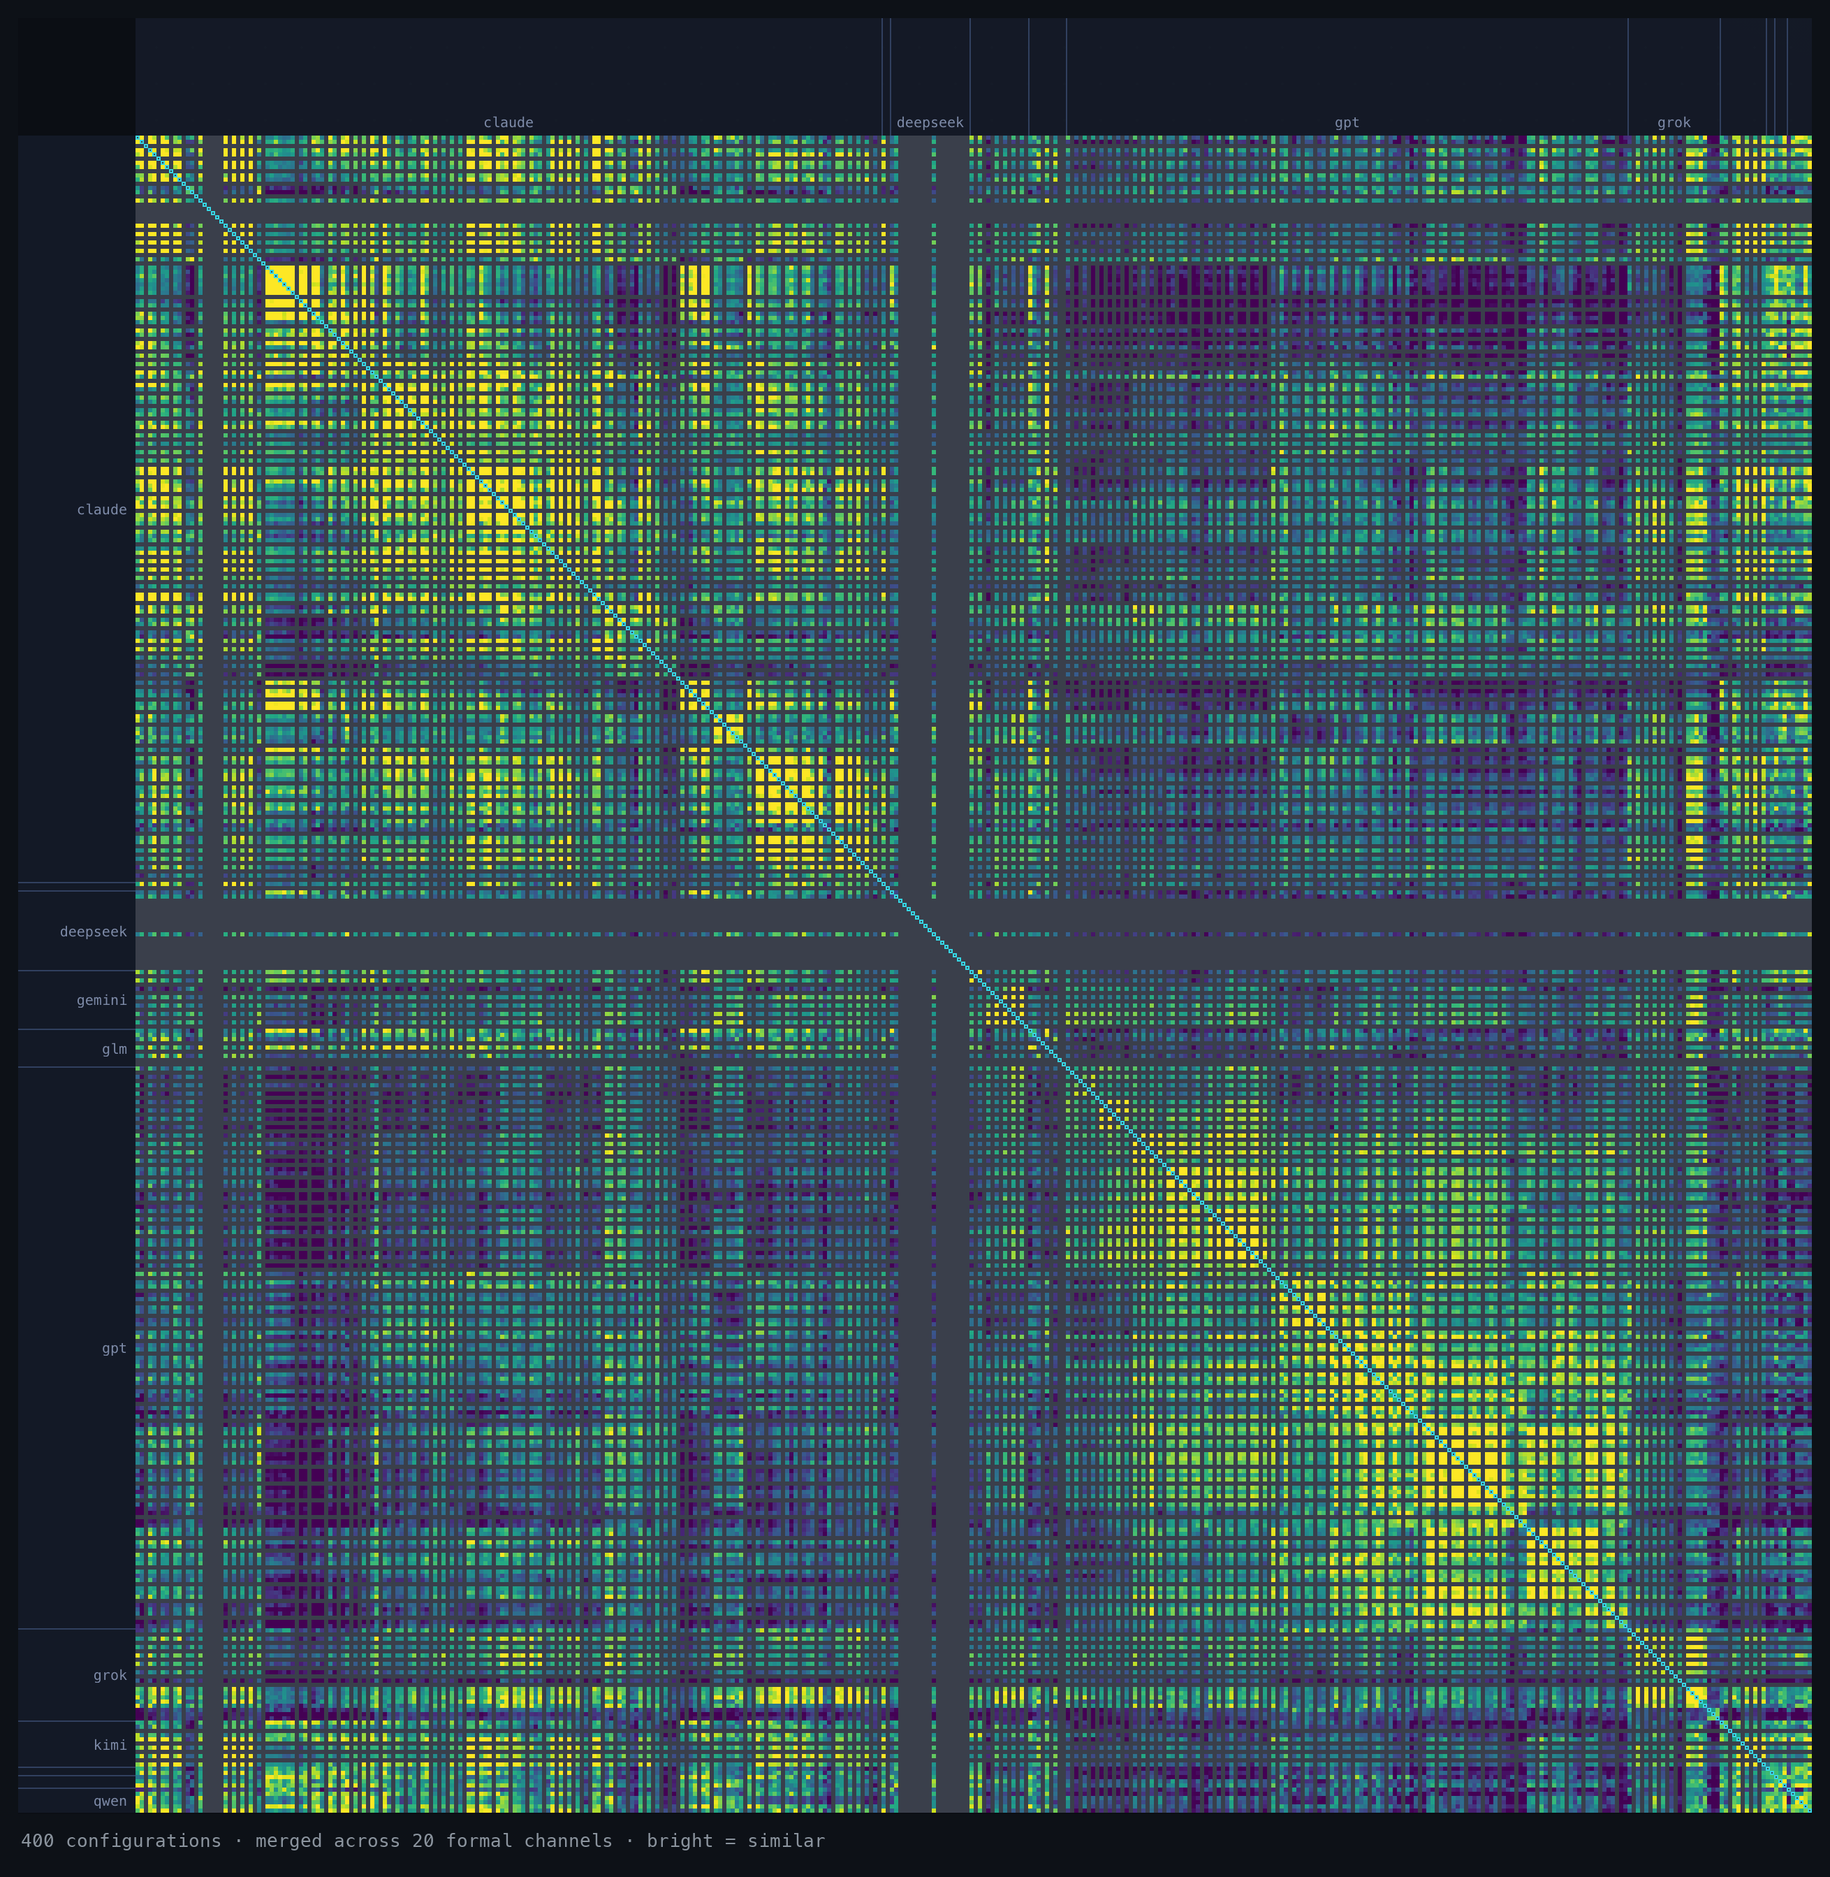
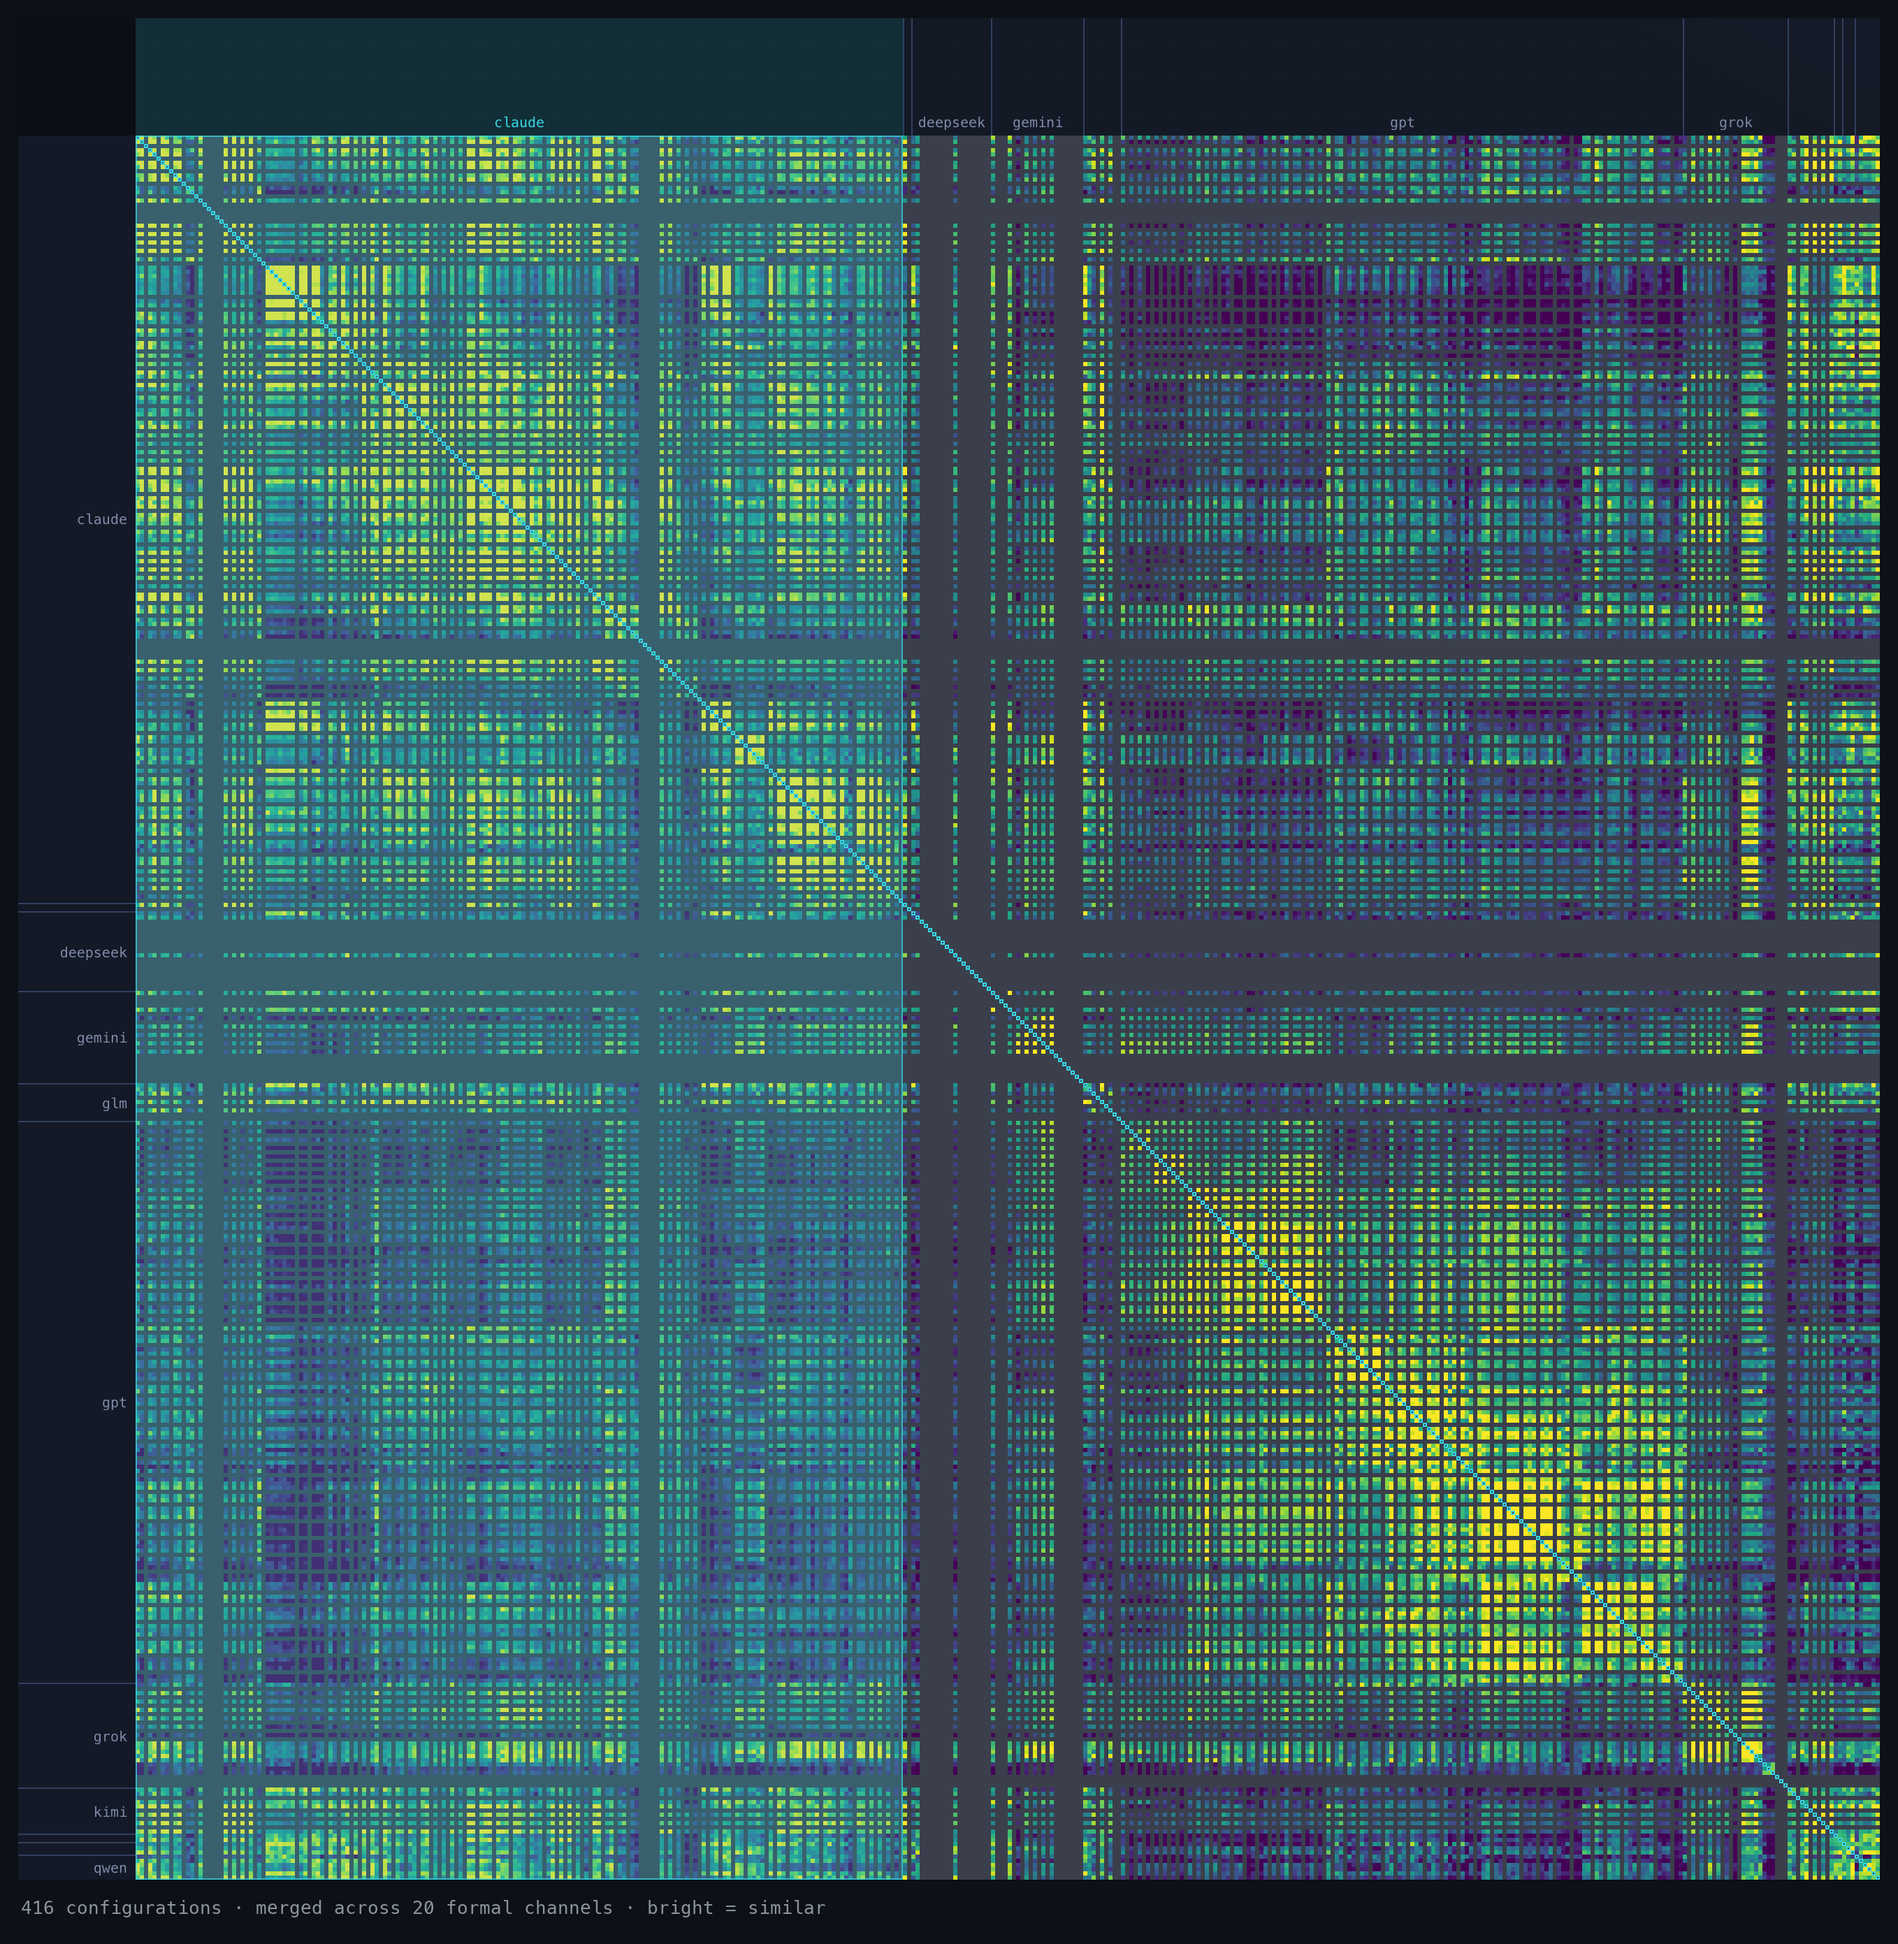
align public artifacts with the 535-config board
New this round: claude-opus-5-5 (CC), gpt-6-sol + gpt-6-luna (codex/sub2),
gemini-3.7/3.8-flash + 3.1-pro (agy — a new Antigravity harness arm).
- dataset pack: fresh 2026-09-23 pack (1.4 GB, sha256 ea6b3b55…), 535 configs
- matrix.png: regenerated from the live board (416-config harness view)
- config counts bumped 513 -> 535 (numeric findings stay 2026-08-snapshot-stamped)
- flagship subset: merge-domain lock refreshed to the 535-set domain

diff --git a/README.zh.md b/README.zh.md
@@ -40,14 +40,14 @@ MIT
 ## 这张地图
 
 <div align="center">
-<img src="docs/matrix.png" alt="config 对 config 相似度热力图(513 config 集的 400 config harness 视图),merged 合并通道" width="82%">
+<img src="docs/matrix.png" alt="config 对 config 相似度热力图(535 config 集的 416 config harness 视图),merged 合并通道" width="82%">
 </div>
 
 每个被测 configuration 对上其余每一个,跨所有通道合并。亮 = 相似,暗 = 分化。对角线上的亮块是各**模型家族**在自我聚类;那条细亮对角线是每个 config 的**自一致性**(一个模型和它*自己*重跑之间有多像)。这里的相似度是**测量,不是质量分** —— 它只刻画收敛,别无其他。
 
 ### 从矩阵里才看得到的
 
-有些东西只在这里现形。下面的数字都是 `P-min` 集上、跨 **20 条正式通道**的 merged **共识分**,计算于集合的 **2026-08 快照** —— 此后板面继续在长(现为 **513 个 configuration**),线上矩阵永远显示当前值。**是信号,不是证明**(单一 prompt 家族、小 N),而且有两个混淆项贯穿始终:低 effort 的卡会向一个通用基线收敛,共享的 harness(opencode / Kiro / Qoder)本身也会带进脚手架。请据此理解。
+有些东西只在这里现形。下面的数字都是 `P-min` 集上、跨 **20 条正式通道**的 merged **共识分**,计算于集合的 **2026-08 快照** —— 此后板面继续在长(现为 **535 个 configuration**),线上矩阵永远显示当前值。**是信号,不是证明**(单一 prompt 家族、小 N),而且有两个混淆项贯穿始终:低 effort 的卡会向一个通用基线收敛,共享的 harness(opencode / Kiro / Qoder)本身也会带进脚手架。请据此理解。
 
 > **这个数是什么。** 通道之间量纲不可比 —— `c-winnow` 的跨对中位数是 0.22,`x-semantics` 是 0.95 —— 所以直接平均,结果基本上等于"谁的方差大就听谁的"。因此每条通道先按它在全集上的 p1–p99 拉伸,再取平均,让每条通道票权相等。拉伸区间是**冻结**在已发布数据里的,所以这里的数字和线上矩阵显示的是同一个数,筛选视图也不会让它变。**共识分不是相似度百分比**:0.50 的意思是"在这个语料里属于中游",不是"像了一半"。
 
@@ -117,8 +117,8 @@ cd site && npm install && npm run dev   # http://localhost:3000
 
 **完整集**可在线浏览,也能作为单个 pack 下载:
 
-- **完整数据集** → <https://weathercard.secondfirst.ai/downloads/wcb-full-dataset-2026-09-13.tar.gz>
-  (~1.4 GB,sha256 `cbc5a181…cd3bb9`)。解压出 `2026-07-19--unified/` + `index.json`;把 `WCB_DATA_ROOT` 指向解压目录即可在本地跑整套。
+- **完整数据集** → <https://weathercard.secondfirst.ai/downloads/wcb-full-dataset-2026-09-23.tar.gz>
+  (~1.4 GB,sha256 `ea6b3b55…0b4a4a`)。解压出 `2026-07-19--unified/` + `index.json`;把 `WCB_DATA_ROOT` 指向解压目录即可在本地跑整套。
 
 ## 目录
 

diff --git a/README.md b/README.md
@@ -52,7 +52,7 @@ prompt family, small N). Every one links back to the raw data on the site.
 ## The map
 
 <div align="center">
-<img src="docs/matrix.png" alt="config-vs-config similarity heatmap (400-config harness view of the 513-config set), merged consensus channel" width="82%">
+<img src="docs/matrix.png" alt="config-vs-config similarity heatmap (416-config harness view of the 535-config set), merged consensus channel" width="82%">
 </div>
 
 Every measured configuration against every other, merged across all channels.
@@ -65,7 +65,7 @@ here is a **measurement, not a quality score** — it captures convergence, noth
 
 Some things only show up here. The numbers below are the merged **consensus score**
 on the `P-min` set over the **20 formal channels**, computed on the **2026-08
-snapshot** of the set — the board has grown since (now **513 configurations**), and
+snapshot** of the set — the board has grown since (now **535 configurations**), and
 the live matrix always shows the current values. **Signals, not proof** (single
 prompt family, small N), and two confounds run through all of them: low-effort cards
 converge toward a generic baseline, and a shared harness (opencode / Kiro / Qoder)
@@ -207,8 +207,8 @@ so the repo ships a **flagship subset** — one canonical configuration per fron
 
 The **full set** is browsable live, and downloadable as a single pack:
 
-- **Full dataset** → <https://weathercard.secondfirst.ai/downloads/wcb-full-dataset-2026-09-13.tar.gz>
-  (~1.4 GB, sha256 `cbc5a181…cd3bb9`). Extracts to `2026-07-19--unified/` +
+- **Full dataset** → <https://weathercard.secondfirst.ai/downloads/wcb-full-dataset-2026-09-23.tar.gz>
+  (~1.4 GB, sha256 `ea6b3b55…0b4a4a`). Extracts to `2026-07-19--unified/` +
   `index.json`; point `WCB_DATA_ROOT` at the extracted directory to serve the
   whole set locally.
 
